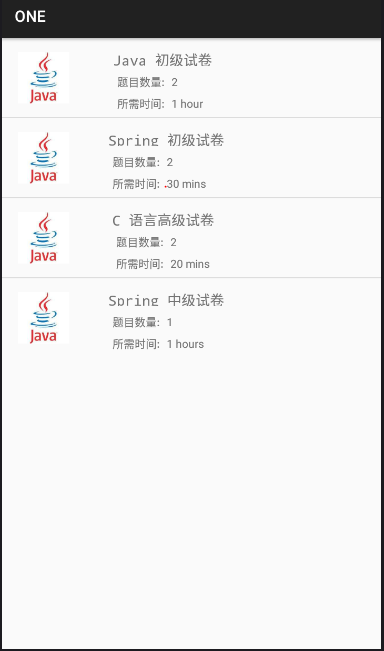
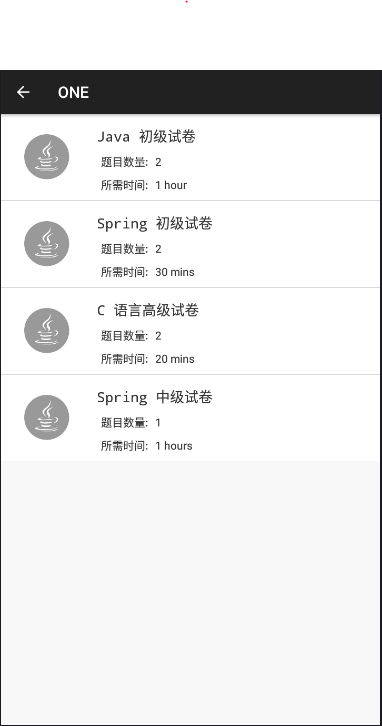
change layout

diff --git a/app/src/main/java/com/one/frontend/interviewexam/ResultActivity.java b/app/src/main/java/com/one/frontend/interviewexam/ResultActivity.java
@@ -3,6 +3,7 @@ package com.one.frontend.interviewexam;
 import android.os.Bundle;
 import android.support.v7.app.AppCompatActivity;
 import android.util.Log;
+import android.view.MenuItem;
 import android.widget.ListView;
 import android.widget.TextView;
 import com.one.frontend.interviewexam.model.UserInfo;
@@ -19,7 +20,11 @@ public class ResultActivity extends AppCompatActivity {
         Log.e("activity info userid", String.valueOf(userId));
         bindView();
         GetUserInfoTask task = new GetUserInfoTask();
-
+        android.support.v7.app.ActionBar actionBar = getSupportActionBar();
+        if (actionBar != null) {
+            actionBar.setHomeButtonEnabled(true);
+            actionBar.setDisplayHomeAsUpEnabled(true);
+        }
         task.setCallBack(new GetUserInfoTask.Callback() {
             @Override
             public void setObj(UserInfo userInfo) {
@@ -45,5 +50,11 @@ public class ResultActivity extends AppCompatActivity {
     public void bindView() {
         count = findViewById(R.id.count);
 
+    }
+
+    @Override
+    public boolean onOptionsItemSelected(MenuItem item) {
+        finish(); // back button
+        return true;
     }
 }

diff --git a/app/src/main/java/com/one/frontend/interviewexam/ExamlistActivity.java b/app/src/main/java/com/one/frontend/interviewexam/ExamlistActivity.java
@@ -5,6 +5,7 @@ import android.content.Intent;
 import android.os.Bundle;
 import android.support.v7.app.AppCompatActivity;
 import android.util.Log;
+import android.view.MenuItem;
 import android.view.View;
 import android.widget.AdapterView;
 import android.widget.ArrayAdapter;
@@ -28,6 +29,11 @@ public class ExamlistActivity extends AppCompatActivity {
     protected void onCreate(Bundle savedInstanceState) {
         super.onCreate(savedInstanceState);
         setContentView(R.layout.activity_examlist);
+        android.support.v7.app.ActionBar actionBar = getSupportActionBar();
+        if (actionBar != null) {
+            actionBar.setHomeButtonEnabled(true);
+            actionBar.setDisplayHomeAsUpEnabled(true);
+        }
         userId = getIntent().getIntExtra("userId",0);
         Log.e("activity info ", "userId：" + userId);
         try {
@@ -61,5 +67,10 @@ public class ExamlistActivity extends AppCompatActivity {
                 finish();
             }
         });
+    }
+    @Override
+    public boolean onOptionsItemSelected(MenuItem item) {
+        finish(); // back button
+        return true;
     }
 }

diff --git a/app/src/main/java/com/one/frontend/interviewexam/PaperActivity.java b/app/src/main/java/com/one/frontend/interviewexam/PaperActivity.java
@@ -77,8 +77,6 @@ public class PaperActivity extends AppCompatActivity implements View.OnClickList
 
     private SubjectInfo initUI(SubjectInfo subjectInfo) {
         TextView question = (TextView) findViewById(R.id.question);
-        TextView totalCount = (TextView) findViewById(R.id.totalCount);
-        totalCount.setText(String.valueOf(subjectInfo.getPaperDetail().getCount()));
         question.setText(subjectInfo.getPaperSubjects().get(position).getSubjectName());
         if (position == (subjectInfo.getPaperDetail().getCount() - 1)) {
             // Toast.makeText(this, "已经是最后一题了" + position, Toast.LENGTH_SHORT).show();

diff --git a/app/src/main/java/com/one/frontend/interviewexam/adapter/SubjectOptionAdapter.java b/app/src/main/java/com/one/frontend/interviewexam/adapter/SubjectOptionAdapter.java
@@ -64,7 +64,7 @@ public class SubjectOptionAdapter extends BaseAdapter {
         convertView.setTag(viewHolder);
 
         viewHolder.answerDesc.setText(subjectOptions.get(position).getAnswerDesccription());
-        viewHolder.answerOption.setText(subjectOptions.get(position).getAnswerOption());
+        //viewHolder.answerOption.setText(subjectOptions.get(position).getAnswerOption());
         viewHolder.answerOption.setOnCheckedChangeListener(new CompoundButton.OnCheckedChangeListener() {
             @Override
             public void onCheckedChanged(CompoundButton buttonView, boolean b) {
